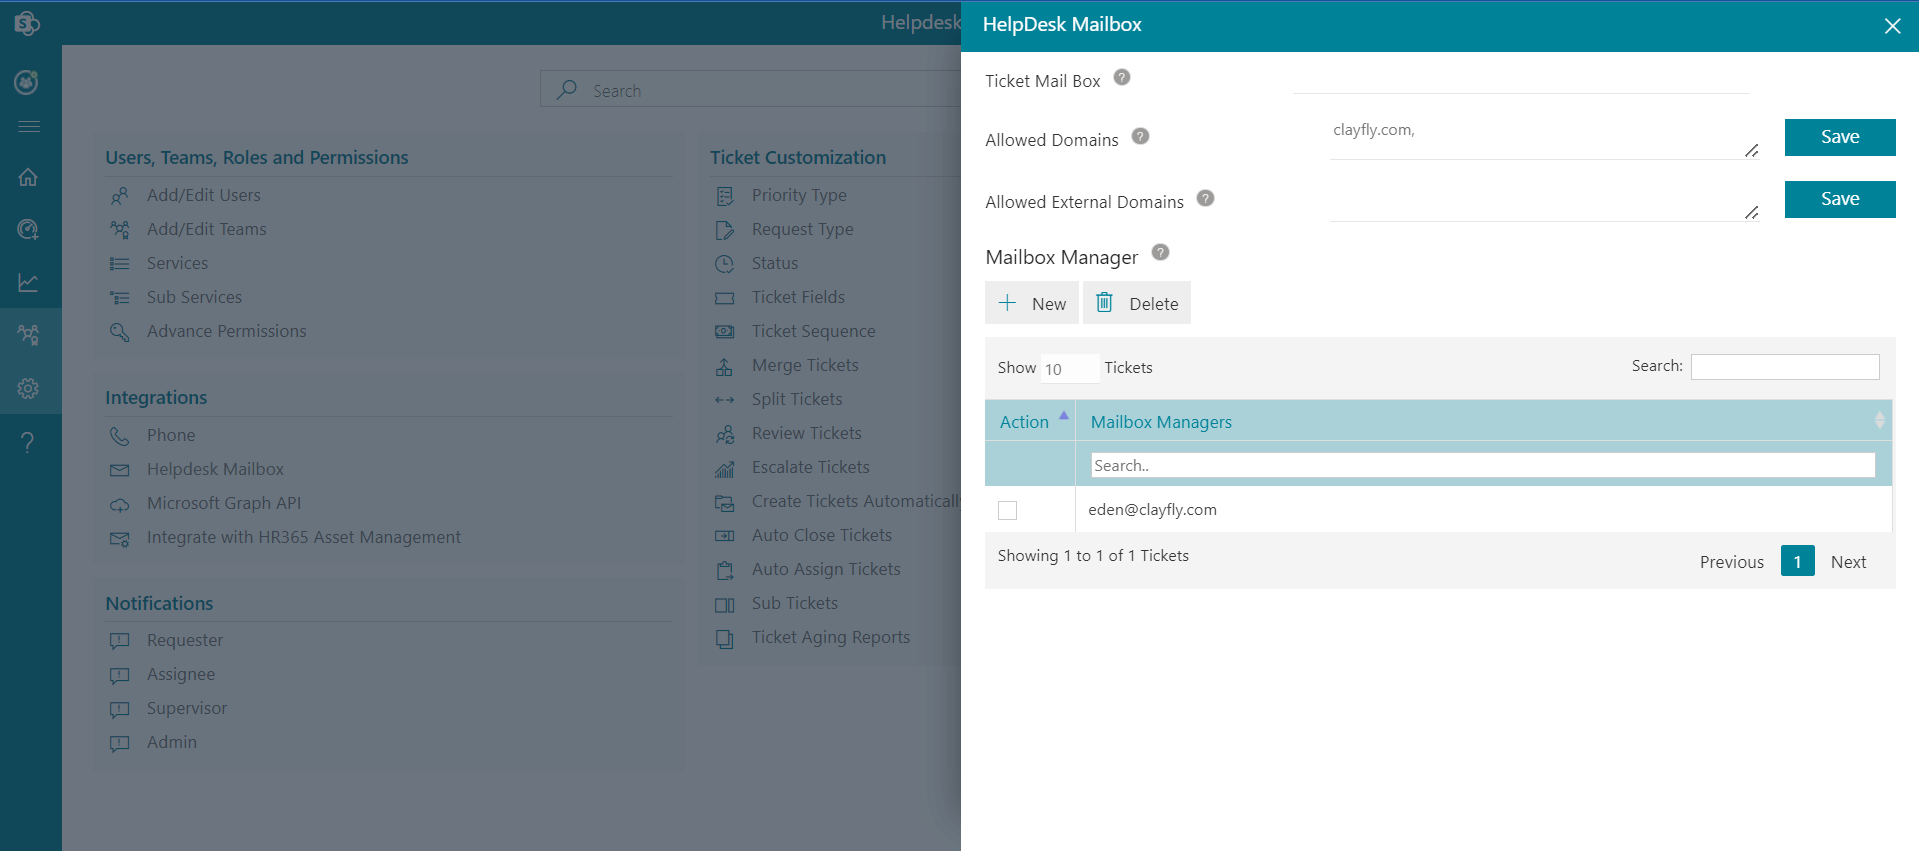
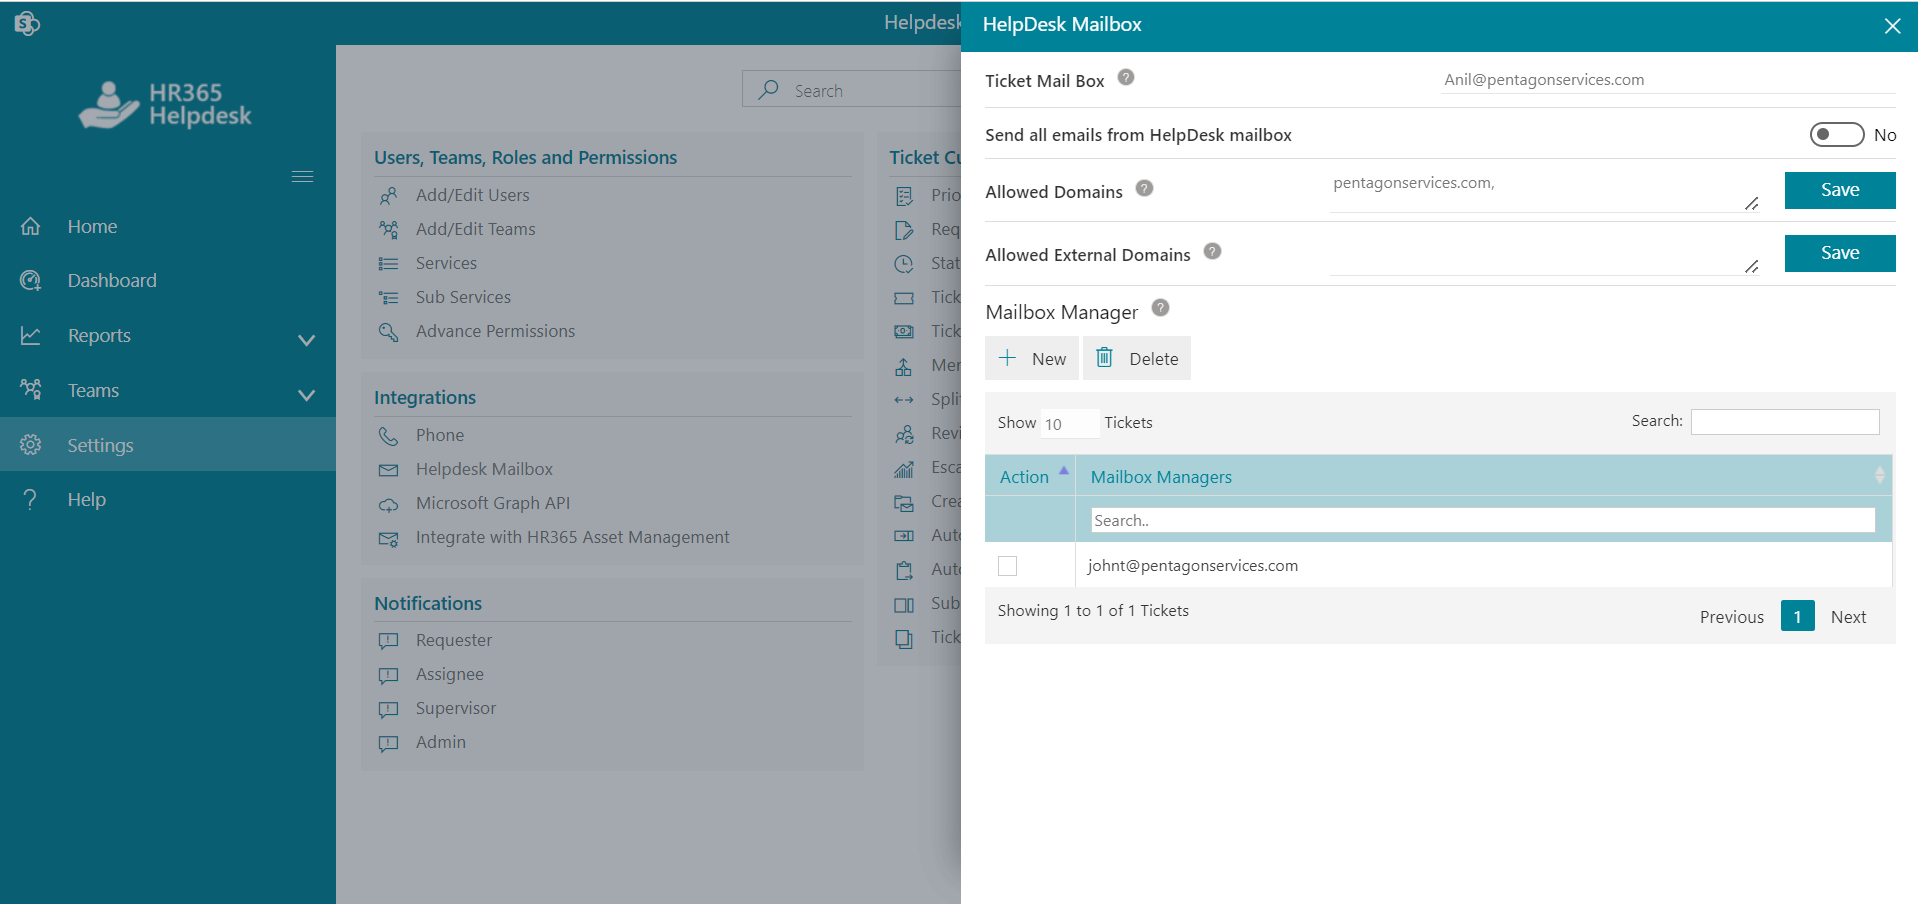
update

diff --git a/sharepoint-helpdesk/classic/admin/settings/integration/index.html b/sharepoint-helpdesk/classic/admin/settings/integration/index.html
@@ -127,8 +127,36 @@
                                 </p>
 
                                 <div><img src="mail.png" onclick="openModal('mail.png')" alt="" width="100%" height="auto"></div>
-
-
+                                
+<br>
+                              <p>  If the Power automate flow is configured in your HR365 Helpdesk application with your support mailbox ID you will be able to send all the emails through power automate.</p>
+                                <p> 1. Select Helpdesk Mailbox from the integrations section of the settings page. Now click on the configure button as shown below in the panel.<br>
+                                    <div><img src="mail_configure.png" onclick="openModal('mail_configure.png')" alt="" width="100%" height="auto"></div>
+                                
+                                    <br>
+                                    </p>
+                               
+                               <p> 2. Turn on the toggle to enable the setting.<br>
+                                <div><img src="mail_enable.png" onclick="openModal('mail_enable.png')" alt="" width="100%" height="auto"></div>
+                                
+                                    <br></p>
+                                
+                              <p> 3. You will see one Message box.<br>
+                                <div><img src="mail_dialog.png" onclick="openModal('mail_dialog.png')" alt="" width="100%" height="auto"></div>
+                                
+                                <br></p> 
+                                
+                                <p>4. Press Ok to enable the setting.<br>
+                                    <div><img src="mail_ok.png" onclick="openModal('mail_ok.png')" alt="" width="100%" height="auto"></div>
+                                
+                                <br></p>
+                                
+                                It will send all the emails through power automate else it will send all the emails through <b>mailto:no-reply@sharepoint.com.</b>
+                                <div class="notices note">
+                                    <div class="paragraph">
+    
+                                Note: Please ensure that you have enough API call limits (usually you get 2000 calls including all operations in 24 hours)
+</div></div>
                         </div>
                         <div class="bg-light p-4 common-scroll" id="graph-api">
                             <ul class=page-list>
